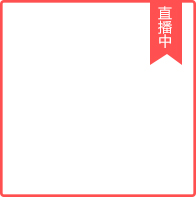
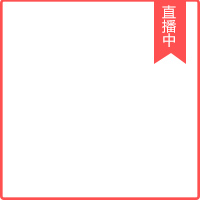
2017/9/28

Changed region(s): [[0.0, 0.0, 1.0, 0.335]]

diff --git a/public/manage/css/manage.css b/public/manage/css/manage.css
@@ -2700,6 +2700,7 @@ body .oftentable.tianyuant tr td{
 	color:#79b2e1;
 	text-align:center;
 	font-size:14px;
+	position:relative;
 }
 .jkvideo_list li.islive{
 	background-image:url(../img/islive.jpg);
@@ -2712,9 +2713,9 @@ body .oftentable.tianyuant tr td{
 	color:#ff5050;
 }
 .jkvideo_list li .tongdao{
-	text-align:right;
-	font-size:12px;
-	margin-top:10px;
+	position:absolute;
+	bottom:15px;
+	right:15px;
 }
 .jkvideo_list li a{
 	display:block;

diff --git a/themes/html/playstream.html b/themes/html/playstream.html
@@ -3,7 +3,7 @@
 	<head>
 		<meta charset="utf-8">
 		<meta name="viewport" content="width=device-width,initial-scale=1,minimum-scale=1,maximum-scale=1,user-scalable=no" />
-		<title>测试观看页面-闪阅云</title>
+		<title>监播页面-闪阅云</title>
 
 		<link rel="stylesheet" href="__TPL__mobile/css/style1.css" />
 		<!-- Css 样式-->

diff --git a/themes/html/mobile/playstream.html b/themes/html/mobile/playstream.html
@@ -80,9 +80,9 @@ CKobject.embed('__PUBLIC__/ckplayer/ckplayer.swf','play','player_a1',w,h,false,f
 		</div>
         
         
-        <div class="jktitle">
+        <!--<div class="jktitle">
         	闪阅云教育微直播平台简介
-        </div>
+        </div>-->
         
         
         

diff --git a/manage/template/live/index.html b/manage/template/live/index.html
@@ -57,7 +57,7 @@
 						<p class="video_data">
 							<span>
 								<img src="__PUBLICURL__/manage/img/videok_gk.png"/>
-								{$vo.views}
+								<?=$vo['views']*$user['multiple']?>
 							</span>
 							<span>
 								<img src="__PUBLICURL__/manage/img/videok_bf.png"/>

diff --git a/manage/template/activity/index.html b/manage/template/activity/index.html
@@ -46,7 +46,7 @@
 						<p class="video_data">
 							<span>
 								<img src="__PUBLICURL__/manage/img/videok_gk.png"/>
-								{$vo.views}
+								<?=$vo['views']*$user['multiple']?>
 							</span>
 							<span>
 								  {$php(echo date('Y-m-d H:i',$vo['updatetime']))}

diff --git a/manage/template/content/index.html b/manage/template/content/index.html
@@ -46,7 +46,7 @@
 						<p class="video_data">
 							<span>
 								<img src="__PUBLICURL__/manage/img/videok_gk.png"/>
-								{$vo.views}
+								<?=$vo['views']*$user['multiple']?>
 							</span>
 							<span>
 								  {$php(echo date('Y-m-d H:i',$vo['updatetime']))}

diff --git a/manage/template/sources/index.html b/manage/template/sources/index.html
@@ -46,7 +46,7 @@
 						<p class="video_data">
 							<span>
 								<img src="__PUBLICURL__/manage/img/videok_gk.png"/>
-								{$vo.views}
+							<?=$vo['views']*$user['multiple']?>
 							</span>
 							<span>
 								  {$php(echo date('Y-m-d H:i',$vo['updatetime']))}
